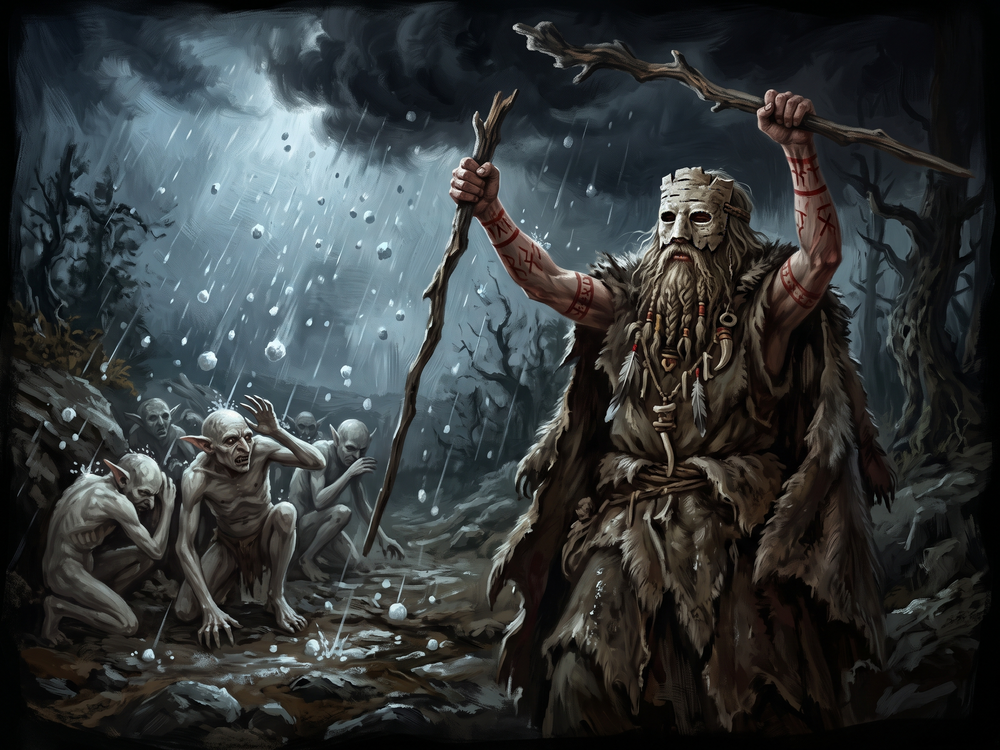
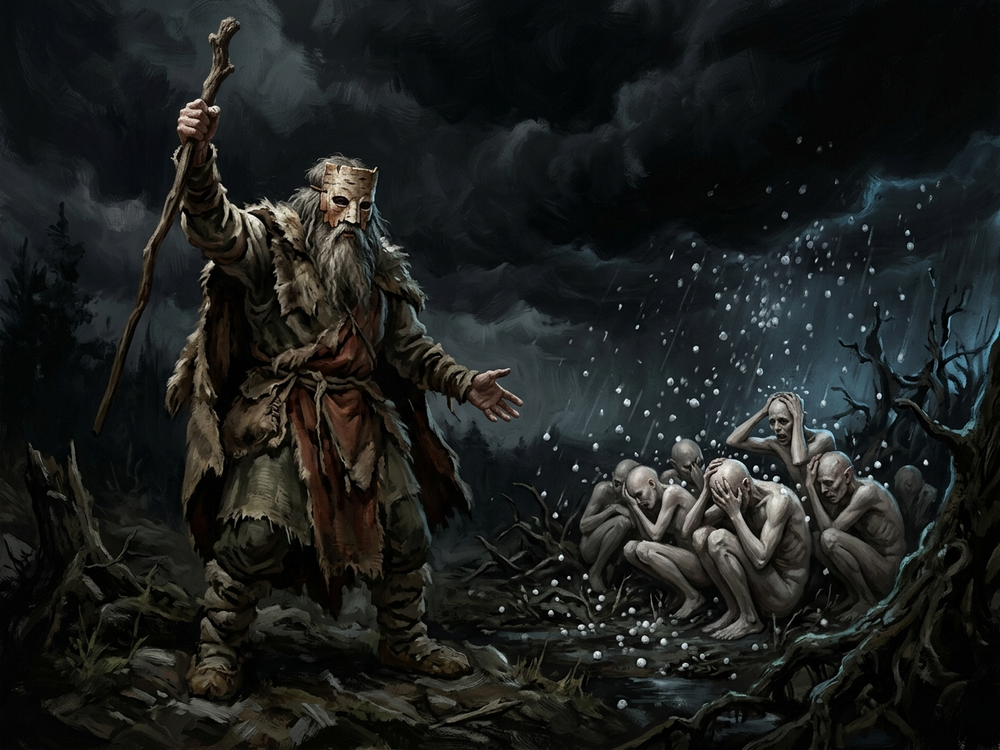
Art: six cards redone; the import tool pairs pictures with ids by title

diff --git a/tools/flowart.py b/tools/flowart.py
@@ -3,6 +3,7 @@
     python tools/flowart.py <card id> [...]            # 1000x750 -> assets/cards/<id>-gemini.png
     python tools/flowart.py --relic <relic id> [...]   # 256x256   -> assets/relics/<id>-gemini.png
     python tools/flowart.py --list                     # what is waiting, oldest first
+    python tools/flowart.py --match [--relic] <id> [...] # pair waiting files with these ids by their titles
     python tools/flowart.py --packs                    # take in every tropa-pack-*.bin and tropa-<kind>-<id>.jpg
 
 A pack is what the page helper `flowPack` saves: several full-size pictures in one file, each
@@ -75,8 +76,50 @@ def packs():
         shutil.move(f, os.path.join(inbox, f"{name}_f.jpg"))
 
 
+def words(text):
+    return {w[:5] for w in re.findall(r"[a-z]+", text.lower()) if len(w) > 2 and w not in {"the", "and", "with", "slavic", "peasant", "old", "dark", "background"}}
+
+
+def match(ids, relic):
+    """Pairs each waiting file with one of `ids` by the words its title shares with the prompt."""
+    import json
+
+    files = waiting()
+    prompts = {}
+    for f in glob.glob(os.path.join(ROOT, "docs", "prompts", "plots", "*.json")):
+        for k, v in json.load(open(f, encoding="utf-8")).items():
+            if isinstance(v, str):
+                prompts[k.split(":", 1)[-1]] = v.split("Game item icon: ", 1)[-1].split(". A single object", 1)[0]
+    left = list(ids)
+    pairs = []
+    for f in files:
+        title = words(os.path.basename(f))
+        best = max(left, key=lambda i: len(title & (words(i) | words(prompts.get(i, "")))), default=None)
+        score = len(title & (words(best) | words(prompts.get(best, "")))) if best else 0
+        if best is None or score == 0:
+            pairs.append((f, None))
+            continue
+        left.remove(best)
+        pairs.append((f, best))
+    for f, i in pairs:
+        print(f"{os.path.basename(f)[:44]:<44} -> {i}")
+    if left:
+        print("no picture for:", " ".join(left))
+    inbox = os.path.join(ROOT, "_inbox")
+    os.makedirs(inbox, exist_ok=True)
+    for f, i in pairs:
+        if i is None:
+            continue
+        place(Image.open(f).convert("RGB"), i, relic)
+        shutil.move(f, os.path.join(inbox, f"{'relic_' if relic else ''}{i}_f.jpg"))
+
+
 def main():
     args = sys.argv[1:]
+    if args[:1] == ["--match"]:
+        relic = args[1:2] == ["--relic"]
+        match(args[2:] if relic else args[1:], relic)
+        return
     if args[:1] == ["--packs"]:
         packs()
         return
